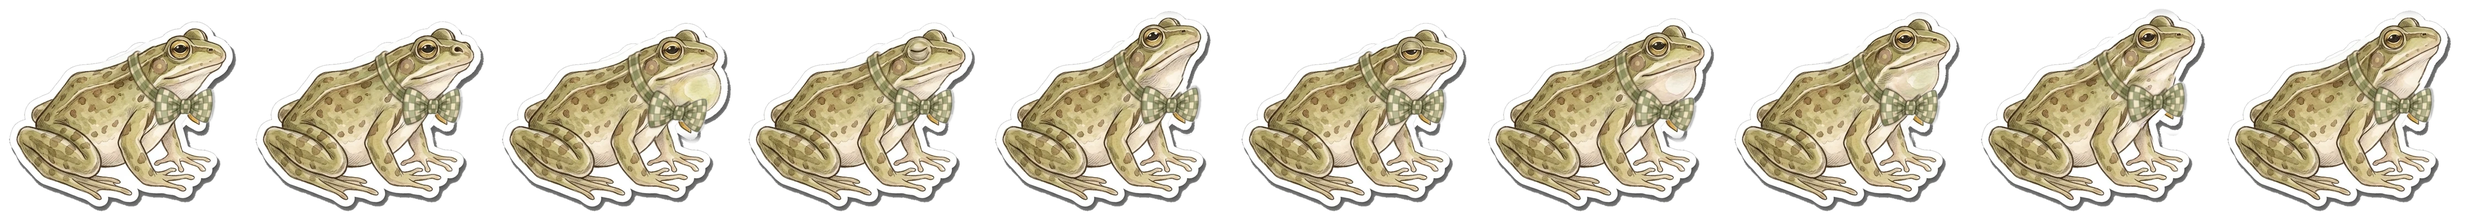
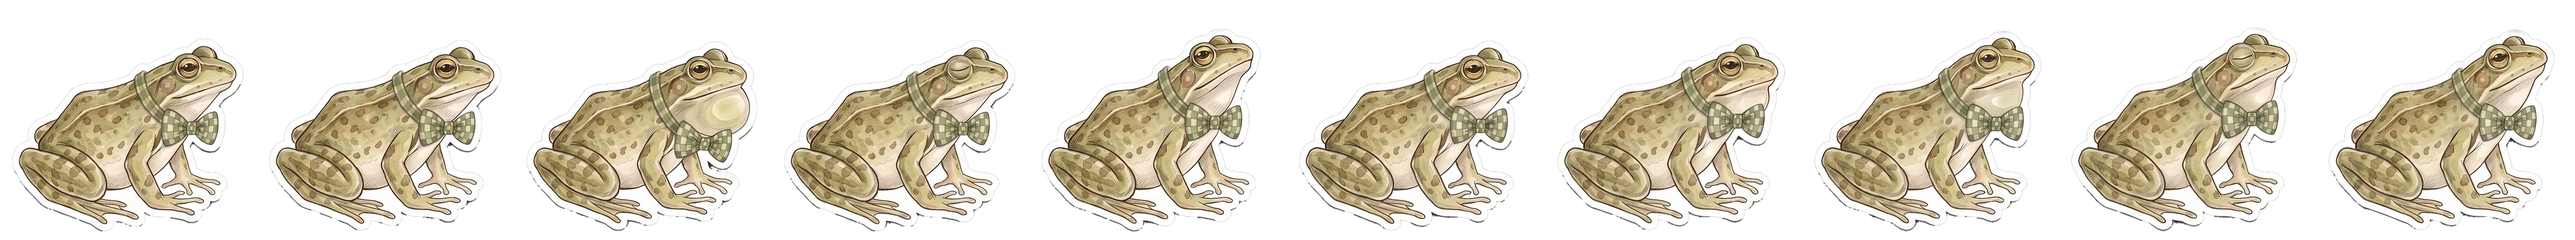
feat(world): repaint Oggy and make his neckerchief his first outfit (#223)
Oggy's yellow neckerchief was painted into his base art, like Bob's bow and
Skip's scarf. His sitting sticker, idle and hop strips are repainted
neckerchief-free, his five outfits are repainted on the clean base, and the
neckerchief becomes a neck item with its own look, idle and hop. The shipped
idle and hop are the neckerchief look, since they are the new base wearing
it. Its wardrobe sticker is a standalone painting in the style of his other
items (wardrobe-suites/frog/neckerchief.png), listed first in suits.json and
anchored in wardrobe-anchors.json; export-wardrobe.py and export-looks.py
regenerate wardrobe.json and looks.json.

The repaints came out a little larger than the old art, so the rim and any
hat ran off his old canvas. The idle and hop cells gain headroom (idle
447x400 to 467x436, hop 396x346 to 424x376) with the feet moved to match;
strips are drawn at a fixed pixel scale, so he stays the same size on the
path. The sitting stickers share a new 480x421 canvas trimmed to what all
seven looks need, and his wardrobe anchors are moved onto it. Stickers are
fitted to a height, so he reads about 6% smaller there than before.

The neckerchief is his starting item, so it is worn until something else is
chosen and baskets unlock the same items in the same order. Tests that
needed a friend with no starting item now use Button.

diff --git a/HopTalesPackage/Tests/AppFeatureTests/WardrobeTests.swift b/HopTalesPackage/Tests/AppFeatureTests/WardrobeTests.swift
@@ -11,45 +11,45 @@ struct WardrobeFeatureTests {
   nonisolated private static var progress: Content.Progress {
     var basket = Basket()
     basket.filled = 4
-    return Content.Progress(journey: Journey(starting: .frog), baskets: [.frog: basket])
+    return Content.Progress(journey: Journey(starting: .crow), baskets: [.crow: basket])
   }
 
   @Test func everyItemIsInOneGridAndTappingSwapsTheLook() async {
     let saved = LockIsolated(Self.progress)
-    let store = TestStore(initialState: Wardrobe.State(friend: .frog)) {
+    let store = TestStore(initialState: Wardrobe.State(friend: .crow)) {
       Wardrobe()
         .dependency(ProgressStore(load: { saved.value }, save: { saved.setValue($0) }))
     } changes: {
       $0.progress = Self.progress
     }
-    let items = WardrobeLibrary.items(for: .frog)
+    let items = WardrobeLibrary.items(for: .crow)
     #expect(store.state.items == items)
 
     store.send(.itemTapped(items[0])) {
-      $0.progress.outfits[.frog] = [items[0].slot: items[0].id]
+      $0.progress.outfits[.crow] = [items[0].slot: items[0].id]
     }
     store.send(.itemTapped(items[1])) {
-      $0.progress.outfits[.frog] = [items[1].slot: items[1].id]
+      $0.progress.outfits[.crow] = [items[1].slot: items[1].id]
     }
-    #expect(saved.value.outfit(for: .frog) == [items[1]])
+    #expect(saved.value.outfit(for: .crow) == [items[1]])
     await store.dismount()
   }
 
   @Test func tappingTheWornItemOrJustMeTakesTheLookOff() async {
     let saved = LockIsolated(Self.progress)
-    let store = TestStore(initialState: Wardrobe.State(friend: .frog)) {
+    let store = TestStore(initialState: Wardrobe.State(friend: .crow)) {
       Wardrobe()
         .dependency(ProgressStore(load: { saved.value }, save: { saved.setValue($0) }))
     } changes: {
       $0.progress = Self.progress
     }
-    let item = WardrobeLibrary.items(for: .frog)[0]
+    let item = WardrobeLibrary.items(for: .crow)[0]
 
-    store.send(.itemTapped(item)) { $0.progress.outfits[.frog] = [item.slot: item.id] }
-    store.send(.itemTapped(item)) { $0.progress.outfits[.frog] = [:] }
-    store.send(.itemTapped(item)) { $0.progress.outfits[.frog] = [item.slot: item.id] }
-    store.send(.justMeTapped) { $0.progress.outfits[.frog] = [:] }
-    #expect(saved.value.outfit(for: .frog).isEmpty)
+    store.send(.itemTapped(item)) { $0.progress.outfits[.crow] = [item.slot: item.id] }
+    store.send(.itemTapped(item)) { $0.progress.outfits[.crow] = [:] }
+    store.send(.itemTapped(item)) { $0.progress.outfits[.crow] = [item.slot: item.id] }
+    store.send(.justMeTapped) { $0.progress.outfits[.crow] = [:] }
+    #expect(saved.value.outfit(for: .crow).isEmpty)
     await store.dismount()
   }
 
@@ -104,6 +104,27 @@ struct WardrobeFeatureTests {
     #expect(saved.value.outfit(for: .hare) == [straw])
     store.send(.justMeTapped) { $0.progress.outfits[.hare] = [:] }
     #expect(saved.value.outfit(for: .hare).isEmpty)
+    await store.dismount()
+  }
+
+  @Test func oggyWearsHisNeckerchiefUntilSomethingElseIsChosen() async throws {
+    let fresh = Content.Progress(journey: Journey(starting: .frog))
+    let saved = LockIsolated(fresh)
+    let store = TestStore(initialState: Wardrobe.State(friend: .frog)) {
+      Wardrobe()
+        .dependency(ProgressStore(load: { saved.value }, save: { saved.setValue($0) }))
+    } changes: {
+      $0.progress = fresh
+    }
+    let items = WardrobeLibrary.items(for: .frog)
+    let neckerchief = try #require(items.first { $0.id == "neckerchief" })
+    let hat = try #require(items.first { $0.id == "lilypad-hat" })
+    #expect(store.state.outfit == [neckerchief])
+
+    store.send(.itemTapped(hat)) { $0.progress.outfits[.frog] = [.head: hat.id] }
+    #expect(saved.value.outfit(for: .frog) == [hat])
+    store.send(.justMeTapped) { $0.progress.outfits[.frog] = [:] }
+    #expect(saved.value.outfit(for: .frog).isEmpty)
     await store.dismount()
   }
 }

diff --git a/HopTalesPackage/Tests/ContentTests/WardrobeTests.swift b/HopTalesPackage/Tests/ContentTests/WardrobeTests.swift
@@ -10,14 +10,15 @@ struct WardrobeTests {
     }
   }
 
-  @Test func everyFriendUnlocksFiveOfTheirWardrobeAndBobAndSkipStartWithAnother() {
+  @Test func everyFriendUnlocksFiveOfTheirWardrobeAndBobSkipAndOggyStartWithAnother() {
     #expect(WardrobeLibrary.all[.hare]?.count == 13)
     #expect(WardrobeLibrary.all[.bunny]?.count == 9)
+    #expect(WardrobeLibrary.all[.frog]?.count == 9)
     for friend in Friend.allCases {
       let starts = WardrobeLibrary.starting[friend] != nil
       #expect(WardrobeLibrary.items(for: friend).count == (starts ? 6 : 5), "\(friend)")
       #expect(WardrobeLibrary.unlockable(for: friend).count == 5, "\(friend)")
-      if friend != .hare, friend != .bunny {
+      if friend != .hare, friend != .bunny, friend != .frog {
         #expect(WardrobeLibrary.all[friend]?.count == 8, "\(friend)")
       }
     }
@@ -34,20 +35,22 @@ struct WardrobeTests {
   }
 
   @Test func onlyUnlockedItemsCanBeWornAndOneItemPerSlot() throws {
-    var progress = Progress(journey: Journey(starting: .frog))
-    let items = WardrobeLibrary.items(for: .frog)
-    progress.wear(items[1], on: .frog)
-    #expect(progress.outfit(for: .frog).isEmpty)
-    progress.wear(items[0], on: .frog)
-    #expect(progress.outfit(for: .frog) == [items[0]])
-    progress.baskets[.frog, default: Basket()].filled = 1
-    progress.wear(items[1], on: .frog)
-    #expect(progress.outfit(for: .frog) == [items[1]])
-    progress.takeOff(items[1].slot, from: .frog)
-    #expect(progress.outfit(for: .frog).isEmpty)
+    var progress = Progress(journey: Journey(starting: .crow))
+    let items = WardrobeLibrary.items(for: .crow)
+    progress.wear(items[1], on: .crow)
+    #expect(progress.outfit(for: .crow).isEmpty)
+    progress.wear(items[0], on: .crow)
+    #expect(progress.outfit(for: .crow) == [items[0]])
+    progress.baskets[.crow, default: Basket()].filled = 1
+    progress.wear(items[1], on: .crow)
+    #expect(progress.outfit(for: .crow) == [items[1]])
+    progress.takeOff(items[1].slot, from: .crow)
+    #expect(progress.outfit(for: .crow).isEmpty)
   }
 
-  @Test(arguments: [(Friend.bunny, "bow", Slot.head), (.hare, "scarf", .neck)])
+  @Test(arguments: [
+    (Friend.bunny, "bow", Slot.head), (.hare, "scarf", .neck), (.frog, "neckerchief", .neck)
+  ])
   func startingItemsAreWornUntilSomethingElseIsChosen(
     friend: Friend, id: String, slot: Slot
   ) throws {
@@ -59,8 +62,8 @@ struct WardrobeTests {
     let fresh = Progress()
     #expect(fresh.isUnlocked(item, for: friend))
     #expect(fresh.outfit(for: friend) == [item])
-    #expect(WardrobeLibrary.startingItem(for: .frog) == nil)
-    #expect(Progress(journey: Journey(starting: .frog)).outfit(for: .frog).isEmpty)
+    #expect(WardrobeLibrary.startingItem(for: .crow) == nil)
+    #expect(Progress(journey: Journey(starting: .crow)).outfit(for: .crow).isEmpty)
   }
 
   @Test func startingItemsLeaveTheUnlockOrderAlone() throws {

diff --git a/HopTalesPackage/Sources/Content/Wardrobe.swift b/HopTalesPackage/Sources/Content/Wardrobe.swift
@@ -59,7 +59,7 @@ public enum WardrobeLibrary {
   public static let wearable: [Friend: [String]] = [
     .hare: ["scarf", "straw", "bowtie", "crown", "specs", "satchel"],
     .bunny: ["bow", "bluebell-crown", "bonnet", "heart-glasses", "daisy-chain", "basket-pack"],
-    .frog: ["lilypad-hat", "goggles", "check-bowtie", "reed-satchel", "raincoat"],
+    .frog: ["neckerchief", "lilypad-hat", "goggles", "check-bowtie", "reed-satchel", "raincoat"],
     .crow: ["flat-cap", "top-hat", "aviator-goggles", "autumn-scarf", "post-satchel"],
     .cat: ["garden-hat", "beret", "cateye-glasses", "red-bell-collar", "cardigan"],
     .crab: ["sailor-cap", "captain-hat", "diving-mask", "claw-mittens", "chest-pack"],
@@ -68,7 +68,9 @@ public enum WardrobeLibrary {
     ]
   ]
 
-  public static let starting: [Friend: String] = [.bunny: "bow", .hare: "scarf"]
+  public static let starting: [Friend: String] = [
+    .bunny: "bow", .hare: "scarf", .frog: "neckerchief"
+  ]
 
   @TaskLocal public static var painted: [Friend: Set<String>] = {
     guard

diff --git a/HopTalesPackage/Sources/World/HareArt.swift b/HopTalesPackage/Sources/World/HareArt.swift
@@ -74,10 +74,10 @@ public struct SpriteSheet: Equatable, Sendable {
     ),
     .frog: (
       .idle(
-        "frog-idle-frames", cell: CGSize(width: 447, height: 400), feet: CGPoint(x: 222, y: 384)
+        "frog-idle-frames", cell: CGSize(width: 467, height: 436), feet: CGPoint(x: 228, y: 420)
       ),
       .hop(
-        "frog-hop", cell: CGSize(width: 396, height: 346), feet: CGPoint(x: 206, y: 335),
+        "frog-hop", cell: CGSize(width: 424, height: 376), feet: CGPoint(x: 220, y: 365),
         standing: 242
       )
     ),
